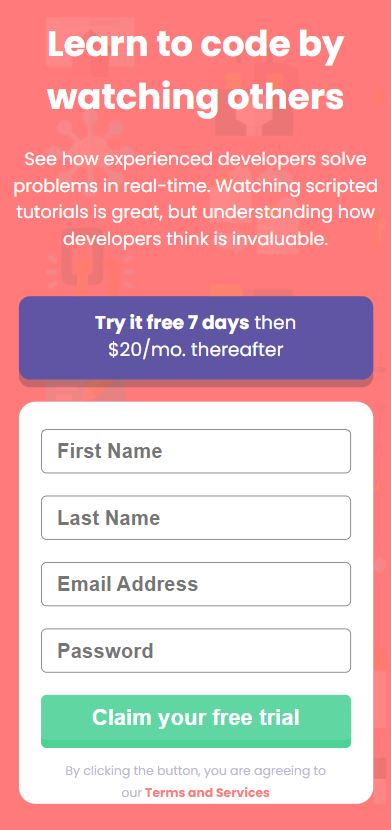
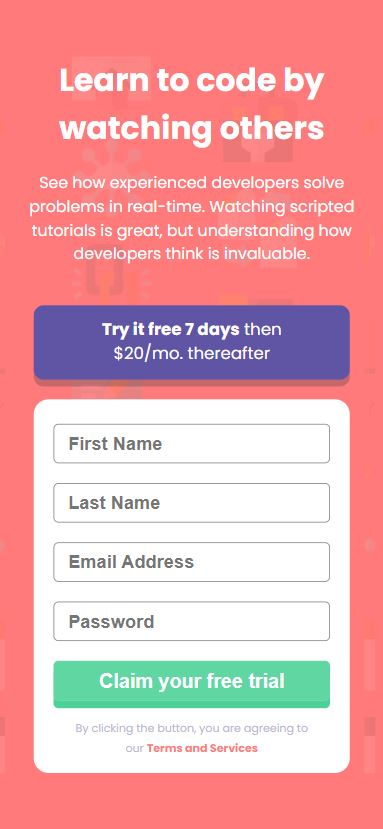
update input field types and attributes, add white space below TOS-text

diff --git a/index.html b/index.html
@@ -32,8 +32,8 @@
           <form>
             <input type="text" id="fname" name="fname" placeholder="First Name" required>
             <input type="text" id="lname" name="lname" placeholder="Last Name" required>
-            <input type="text" id="email" name="email" placeholder="Email Address" required>
-            <input type="text" id="password" name="password" placeholder="Password" required>
+            <input type="email" id="email" name="email" placeholder="Email Address" required>
+            <input type="password" id="password" name="password" placeholder="Password" minlength="8" required>
             <input class="submit-btn" type="submit" value="Claim your free trial">
           </form>
         </div>

diff --git a/style.css b/style.css
@@ -37,7 +37,6 @@ main {
     color: white;
 }
 
-
 .CTA-banner {
     width: 320px;
     height: 75px;
@@ -90,8 +89,10 @@ input {
     font-weight: bold;
 }
 
-/* adds padding-left to the placeholder text within the input */
-input[type=text] {
+/* adds padding-left to the placeholder text within the input types text, password & email */
+input[type=text],
+input[type=password],
+input[type=email] {
     padding-left: 5%;
 }
 
@@ -106,7 +107,7 @@ input[type=text] {
     font-size: 0.7rem;
     text-align: center;
     width: 80%;
-    margin: 8px auto 0px auto;
+    margin: 8px auto 15px auto;
     color: hsl(246, 25%, 77%);
     line-height: 20px;
 }

diff --git a/README.md b/README.md
@@ -1,12 +1,21 @@
 # Frontend Mentor - Intro component with sign up form solution
 
-This is my own solution to the [Intro component with sign up form challenge on Frontend Mentor](https://www.frontendmentor.io/challenges/intro-component-with-signup-form-5cf91bd49edda32581d28fd1). I was able to complete this using only HTML and CSS. I felt I was able to get the design looking very similar. I would greatly appreciate any feedback / constructive criticism on how I could refactor any parts of my code, or if there are any places where I have frogotten to use best practices. I built this using mobile first design as to be following Googles mobile first indexing best practices in relation to SEO. 
+This is my own solution to the [Intro component with sign up form challenge on Frontend Mentor](https://www.frontendmentor.io/challenges/intro-component-with-signup-form-5cf91bd49edda32581d28fd1). I was able to complete this using only HTML and CSS. I felt I was able to get the design looking very similar.
 
-One new thing I did learn doing this, was how to give form input placeholder text margin by using code such as: 
+I built the page using mobile first design as to be inline with Googles mobile first indexing best practices in relation to SEO. 
 
-input[type=text] {
+One new thing I did learn doing this challenge, was how to give form input types placeholder text margin by using code such as: 
+
+input[type=text],
+input[type=password],
+input[type=email] {
     padding-left: 5%;
 }
+
+It also was a good refresher on the different form input types such as type="password", as well as client-side form validation using HTML form input attributes such as type="email", minlength and required.
+
+
+I would greatly appreciate any feedback / constructive criticism on how I could refactor any parts of my code, or if there are any places where I have forgotten to use best practices. 
 
 ## Table of contents
 
